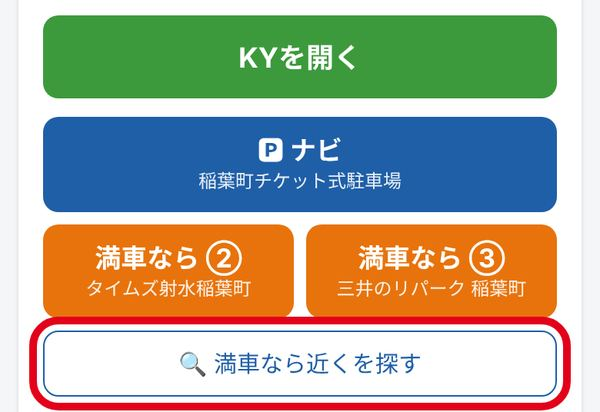
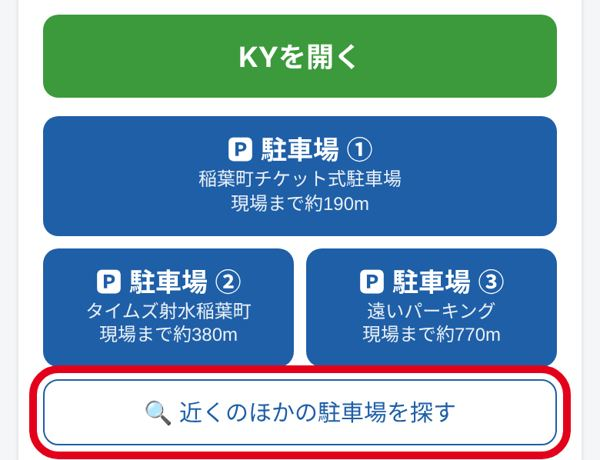
駐車場は「いつもの」「満車なら」をやめ、現場から近い順に①②③（距離つき）。⬆いつもの駐車場にするも外す、版40
Claude-Session: https://claude.ai/code/session_018EELiBsW9Z6HVn8MiPcFqs

diff --git a/list.js b/list.js
@@ -25,22 +25,20 @@ const List = (() => {
     return `<div class="addr">${where}${Nav.hasPoint(s) ? "　📍地図の場所あり" : ""}</div>${Nav.links(s)}`;
   }
 
-  // 駐車場（版34）：携帯が苦手な人は「押すだけ」。登録してある駐車場へのナビだけを大きく出す
-  //  1番目＝いつもの駐車場「🅿 ナビ」、2・3番目＝「満車なら②・③」（満車のときの駐車場は、登録する人が先に入れておく）
+  // 駐車場（版34・39・40）：携帯が苦手な人は「押すだけ」。登録してある駐車場を、現場から近い順に①②③で出す
+  //  押すと駐車場を見る画面（地図・距離・料金）→「ここにする」でナビ（parkview.js）
   //  「🔍 近くを探す」「駐車場を登録」は登録する人の表示（🔧）のときだけ
   function parkRow(s) {
-    const parks = s.parks || [];
-    const find = Nav.parkSearch(s, parks.length ? "🔍 満車なら近くを探す" : "🔍 近くの駐車場を探す", "parkFind helperOnly");
+    const parks = ParkView.sorted(s);
+    const find = Nav.parkSearch(s, parks.length ? "🔍 近くのほかの駐車場を探す" : "🔍 近くの駐車場を探す", "parkFind helperOnly");
     if (!parks.length) {
       return `${find}<button type="button" class="parkBtn small helperOnly" data-park="${esc(s.id)}">🅿 駐車場を登録（駐車場に着いてから）</button>`;
     }
     const nums = ["①", "②", "③"];
-    // 版39：押すといきなりナビではなく、駐車場を見る画面（地図・距離・料金→「ここにする」でナビ）を開く
     const gos = parks.slice(0, 3).map((p, i) => {
-      const d = typeof ParkView !== "undefined" ? ParkView.distText(s, p).replace("現場まで ", "現場まで") : "";
-      return `<button type="button" class="parkNavi${i ? " alt" : ""}" data-pview="${esc(s.id)}" data-pi="${i}">`
-        + (i === 0 ? `🅿 駐車場 ①` : `満車なら ${nums[i]}`)
-        + `<span class="sub">${esc(p.name || (i ? "ほかの駐車場" : "いつもの駐車場"))}</span>${d ? `<span class="sub">${esc(d.replace(/（.*$/, ""))}</span>` : ""}</button>`;
+      const d = ParkView.short(s, p);
+      return `<button type="button" class="parkNavi" data-pview="${esc(s.id)}" data-pid="${esc(p.id)}">🅿 駐車場${parks.length > 1 ? " " + nums[i] : ""}`
+        + `<span class="sub">${esc(p.name || "名前なし")}</span>${d ? `<span class="sub">現場まで${d}</span>` : ""}</button>`;
     }).join("");
     const line = (label, v) => v ? `<div>${label}：${esc(v)}</div>` : "";
     const items = parks.map((p, i) => `<div class="parkCard">
@@ -51,9 +49,8 @@ const List = (() => {
         ${Nav.links(p)}
       </div>`).join("");
     const btn = `<button type="button" class="parkBtn small helperOnly" data-park="${esc(s.id)}">🅿 駐車場を足す・直す</button>`;
-    const first = parks[0];
     return `<div class="parkGo${parks.length > 1 ? " many" : ""}">${gos}</div>${find}
-      <details class="parks"><summary>料金・ほかの駐車場（${parks.length}か所${first.price ? "　" + esc(first.price) : ""}）</summary>${items}${btn}</details>`;
+      <details class="parks"><summary>料金・ほかの駐車場（${parks.length}か所${parks[0].price ? "　" + esc(parks[0].price) : ""}）</summary>${items}${btn}</details>`;
   }
 
   function render() {
@@ -158,7 +155,7 @@ const List = (() => {
     const b = e.target.closest("button");
     if (!b) return;
     if (b.dataset.copy) return copy(b, b.dataset.copy, "コピー");
-    if (b.dataset.pview) return ParkView.show(b.dataset.pview, +b.dataset.pi);
+    if (b.dataset.pview) return ParkView.show(b.dataset.pview, b.dataset.pid);
     const site = Store.load().find(s => s.id === (b.dataset.share || b.dataset.del || b.dataset.edit || b.dataset.park));
     if (!site) return;
     if (b.dataset.park) return Park.open(site.id);

diff --git a/parkview.js b/parkview.js
@@ -1,6 +1,6 @@
 // 駐車場を見る画面（版39）：カードの「🅿 駐車場」を押しても、いきなりナビを始めない
 // 駐車場と現場の場所を地図に出し、現場までの距離・料金などを見てから「ここにする（ナビ開始）」で道案内を始める
-// 満車のとき用の②③も、上の番号ボタンで見比べられる
+// 駐車場が2つ以上あれば、現場から近い順に①②③と並べ、上の番号ボタンで見比べられる（版40）
 const ParkView = (() => {
   const esc = s => String(s ?? "").replace(/[&<>"']/g, c => ({"&":"&amp;","<":"&lt;",">":"&gt;",'"':"&quot;","'":"&#39;"}[c]));
   const hasPt = p => p && typeof p.lat === "number" && typeof p.lng === "number";
@@ -19,12 +19,28 @@ const ParkView = (() => {
     return m < 1000 ? `現場まで 約${Math.round(m / 10) * 10}m（歩いて約${walk}分）` : `現場まで 約${(m / 1000).toFixed(1)}km（歩いて約${walk}分）`;
   }
 
+  // 近い順に並べる（版40。「満車なら」はやめた）。現場の場所が無いときは入れた順
+  function sorted(site) {
+    const parks = (site && site.parks) || [];
+    if (!hasPt(site)) return parks.slice();
+    const d = p => hasPt(p) ? meters(site, p) : Infinity;
+    return parks.slice().sort((a, b) => d(a) - d(b));
+  }
+  // 短い距離の字（ボタン用）：「約190m」
+  function short(site, p) {
+    if (!hasPt(site) || !hasPt(p)) return "";
+    const m = meters(site, p);
+    return m < 1000 ? `約${Math.round(m / 10) * 10}m` : `約${(m / 1000).toFixed(1)}km`;
+  }
+
   let box = null, map = null;
   function close() { if (box) box.remove(); box = null; map = null; }
 
-  function show(siteId, idx) {
+  function show(siteId, parkId) {
     const site = Store.load().find(s => s.id === siteId);
-    const parks = (site && site.parks) || [];
+    const parks = sorted(site);
+    let idx = parks.findIndex(q => q.id === parkId);
+    if (idx < 0) idx = 0;
     const p = parks[idx];
     if (!p) return;
     close();
@@ -32,11 +48,11 @@ const ParkView = (() => {
     box.className = "pvBack";
     const line = (label, v) => v ? `<tr><th>${label}</th><td>${esc(v)}</td></tr>` : "";
     const tabs = parks.length > 1 ? `<div class="pvTabs">${parks.slice(0, 5).map((q, i) =>
-      `<button type="button" data-pv="${i}" class="${i === idx ? "on" : ""}">${NUM[i]} ${i === 0 ? "いつもの" : "満車なら"}</button>`).join("")}</div>` : "";
+      `<button type="button" data-pv="${esc(q.id)}" class="${i === idx ? "on" : ""}">${NUM[i]} ${short(site, q) || esc((q.name || "").slice(0, 6))}</button>`).join("")}</div>` : "";
     const d = distText(site, p);
     box.innerHTML = `<div class="pvCard">
       ${tabs}
-      <div class="pvKind">🅿 ${NUM[idx]} ${idx === 0 ? "いつもの駐車場" : "満車のときの駐車場"}</div>
+      <div class="pvKind">🅿 駐車場 ${NUM[idx]}${parks.length > 1 && hasPt(site) ? "（現場から近い順）" : ""}</div>
       <div class="pvName">${esc(p.name || "名前なし")}</div>
       ${d ? `<div class="pvDist">🚶 ${d}</div>` : `<div class="note0">現場の場所が入っていないので、距離は出せません。</div>`}
       <div class="pvMap" id="pvMap"></div>
@@ -48,7 +64,7 @@ const ParkView = (() => {
     box.addEventListener("click", e => {
       if (e.target === box || e.target.closest("[data-pvclose]")) return close();
       const t = e.target.closest("[data-pv]");
-      if (t) show(siteId, +t.dataset.pv);
+      if (t) show(siteId, t.dataset.pv);
       if (e.target.closest(".pvGo")) setTimeout(close, 300); // ナビを開いたら、この画面は閉じる
     });
     document.body.appendChild(box);
@@ -75,5 +91,5 @@ const ParkView = (() => {
     if (pts.length > 1) map.fitBounds(pts, { padding: [40, 40], maxZoom: 18 }); else map.setView(pts[0], 17);
   }
 
-  return { show, distText };
+  return { show, distText, sorted, short };
 })();

diff --git a/guide-reg.html b/guide-reg.html
@@ -5,7 +5,7 @@
 <meta name="viewport" content="width=device-width, initial-scale=1">
 <meta name="robots" content="noindex, nofollow">
 <title>現場入場アプリ 登録する人の説明書</title>
-<!-- 登録する人の説明書（版34）：現場を写真で入れる・仲間に送る・駐車場を登録（いつもの＋満車のとき）。写真は作り物の現場 -->
+<!-- 登録する人の説明書（版34・版40）：現場を写真で入れる・仲間に送る・駐車場を登録（近い順に出る）。写真は作り物の現場 -->
 <style>
 body{margin:0;font-family:-apple-system,"Hiragino Sans",sans-serif;background:#f4f6f8;color:#1a1a1a;font-size:17px;line-height:1.6}
 @media (prefers-color-scheme:dark){body{background:#16191d;color:#eee} section,.reg{background:#22262c!important} .tip{background:#1c2a3a!important} .box{background:#3a1c1c!important}}
@@ -35,10 +35,9 @@ img{display:block;margin:6px auto;border:1px solid #ccc;border-radius:8px;max-wi
 <div class="box">LINEには注意事項が全部出ます。ただし、近隣トラブル・人の名前（〇〇さん）・どの家か分かりそうな行（隣・向かい・〇〇宅など）は「要確認の注意があります」とだけ出て、中身は出ません。トラブルのことは「近隣」「トラブル」の言葉を入れて書くと確実です。</div></section>
 <section><h2>3　駐車場を登録する</h2>
 <div class="step"><div class="st"><span class="no">1</span>駐車場に着いたら「🅿 駐車場を登録」→「📍 今いる場所で登録」</div><p>料金などは看板の写真か手で入れて保存。出てきた「📋 知らせる文をコピー」をLINEの邸名のトークに貼ります。</p><img src="guide/6_here.jpg" loading="lazy" style="width:100%" alt=""></div>
-<h3>満車のときの駐車場も入れておく</h3>
-<p>みんなが満車で困らないように、<b>2つ目・3つ目の駐車場</b>も先に入れておいてください。カードに「満車なら②・③」のボタンが出て、押すだけで行けます。</p>
-<div class="step"><div class="st"><span class="no">2</span>順番を決める</div><p>1番目が<b>いつもの駐車場</b>（カードの青い「🅿 ナビ」）、2・3番目が<b>満車のとき</b>（オレンジ）です。「⬆ いつもの駐車場にする」で1番目にできます。</p><img src="guide/7_list.jpg" loading="lazy" style="width:100%" alt=""></div>
-<div class="step"><div class="st"><span class="no">3</span>近くの駐車場を探す</div><p>「🔍 満車なら近くを探す」はGoogleマップで近くの駐車場を探すボタンです。登録する人の表示のときだけ出ます。よさそうな所があったら、行って📍で登録してください。</p><img src="guide/7_find.jpg" loading="lazy" style="width:100%" alt=""></div></section>
+<h3>近くの駐車場をいくつか入れておく</h3>
+<p>カードには、現場から<b>近い順</b>に3つまで「🅿 駐車場 ①②③」が出ます。みんなは押して、地図・距離・料金を見てから「ここにする」でナビを始めます。近くの駐車場を2つ・3つ入れておくと、満車のときも選べます。</p>
+<div class="step"><div class="st"><span class="no">2</span>近くの駐車場を探す</div><p>「🔍 近くのほかの駐車場を探す」はGoogleマップで近くの駐車場を探すボタンです。登録する人の表示のときだけ出ます。よさそうな所があったら、行って📍で登録してください。</p><img src="guide/7_find.jpg" loading="lazy" style="width:100%" alt=""></div></section>
 <div class="bar" style="position:static;margin-top:20px"><a href="./">← アプリに戻る</a></div>
 </body>
 </html>

diff --git a/park.js b/park.js
@@ -88,17 +88,16 @@ const Park = (() => {
     if (!s) return;
     title.textContent = `${s.name} の駐車場`;
     // 登録した駐車場の下に、控えの「🔍 いっぱいのとき：近くの駐車場を地図で探す」（版26。ふだんは登録した駐車場を使い、登録は駐車場に行って📍でする）
-    document.getElementById("parkFind").innerHTML = Nav.parkSearch(s, (s.parks || []).length ? "🔍 満車なら近くを探す" : "🔍 近くの駐車場を探す")
+    document.getElementById("parkFind").innerHTML = Nav.parkSearch(s, (s.parks || []).length ? "🔍 近くのほかの駐車場を探す" : "🔍 近くの駐車場を探す")
       || `<p class="note0">🔍 近くの駐車場を地図で探すには、現場の「直す」で住所か地図の場所を入れてください。</p>`;
     const parks = s.parks || [];
     listEl.innerHTML = parks.length
-      // 版34：1番目が「いつもの駐車場」（カードの🅿 ナビ）、2・3番目が「満車なら②③」。⬆で1番目にできる
-      ? `<p class="note0">1番目が<b>いつもの駐車場</b>、2・3番目が<b>満車のとき</b>にカードに出ます。満車のときの駐車場も先に入れておくと、みんなが押すだけで行けます。</p>`
-        + parks.map((p, i) => `<div class="parkItem">
+      // 版40：カードには現場から近い順に①②③で出る（「いつもの」「満車なら」はやめた）
+      ? `<p class="note0">カードには、現場から<b>近い順</b>に3つまで出ます。近くの駐車場をいくつか入れておくと、みんなが押すだけで選べます。</p>`
+        + ParkView.sorted(s).map((p, i) => `<div class="parkItem">
           <div><b>${["①", "②", "③"][i] || "🅿"} ${esc(p.name || "名前なし")}</b>${p.price ? "　" + esc(p.price) : ""}</div>
-          <div class="note0">${i === 0 ? "いつもの駐車場" : i < 3 ? "満車のとき" : "カードには出ない（料金・ほかの駐車場の中だけ）"}／確認日：${esc(p.checked)}</div>
+          <div class="note0">${ParkView.short(s, p) ? "現場まで" + ParkView.short(s, p) + "／" : ""}確認日：${esc(p.checked)}</div>
           <div class="tools"><button type="button" data-pedit="${esc(p.id)}">直す</button>
-          ${i > 0 ? `<button type="button" data-ptop="${esc(p.id)}">⬆ いつもの駐車場にする</button>` : ""}
           <button type="button" class="del" data-pdel="${esc(p.id)}">削除</button></div>
         </div>`).join("")
       : `<p class="note0">まだ駐車場はありません。</p>`;
@@ -128,7 +127,6 @@ const Park = (() => {
     const b = e.target.closest("button");
     const s = site();
     if (!b || !s) return;
-    if (b.dataset.ptop) { Store.moveParkTop(siteId, b.dataset.ptop); renderList(); return; }
     const p = (s.parks || []).find(x => x.id === (b.dataset.pedit || b.dataset.pdel));
     if (!p) return;
     if (b.dataset.pedit) {

diff --git a/index.html b/index.html
@@ -6,8 +6,8 @@
 <meta name="robots" content="noindex, nofollow">
 <meta name="apple-mobile-web-app-title" content="現場入場">
 <title>現場入場アプリ</title>
-<link rel="stylesheet" href="style.css?v=26">
-<script src="line-escape.js?v=39"></script>
+<link rel="stylesheet" href="style.css?v=27">
+<script src="line-escape.js?v=40"></script>
 </head>
 <body>
 <div id="listScreen">
@@ -63,7 +63,7 @@
   </ul>
 
   <h3>🅿 駐車場</h3>
-  <p>現場のカードの「🅿 駐車場 ①」を押すと、駐車場と現場の地図・距離・料金が出ます。見てから「ここにする（ナビ開始）」で道案内します。満車なら、オレンジの「満車なら②・③」で別の駐車場へ。（満車のときの駐車場と「🔍 近くを探す」は、登録する人が用意します）駐車場の登録は、駐車場に着いてから「🅿 駐車場を登録」→「📍 今いる場所で登録」が一番かんたんです（住所・看板の写真でも登録できます）。</p>
+  <p>現場のカードの「🅿 駐車場」を押すと、駐車場と現場の地図・距離・料金が出ます。見てから「ここにする（ナビ開始）」で道案内します。駐車場が2つ以上ある現場は、現場から近い順に①②③で出ます。（駐車場の登録と「🔍 近くを探す」は、登録する人がします）駐車場の登録は、駐車場に着いてから「🅿 駐車場を登録」→「📍 今いる場所で登録」が一番かんたんです（住所・看板の写真でも登録できます）。</p>
   <ul>
     <li><b>駐車場の中で</b>「📍 今いる場所で登録」、離れた所からは「🏠 住所で登録」（場所は必須）</li>
     <li>場所がずれていたら「🗺 地図でピンを直す」でピンを動かす</li>
@@ -201,18 +201,18 @@
 <script src="https://cdn.jsdelivr.net/npm/jsqr@1.4.0/dist/jsQR.js"></script>
 <script src="https://cdn.jsdelivr.net/npm/tesseract.js@5.1.1/dist/tesseract.min.js"></script>
 <script src="https://cdn.jsdelivr.net/npm/libphonenumber-js@1.13.16/bundle/libphonenumber-min.js"></script>
-<script src="storage.js?v=8"></script>
+<script src="storage.js?v=9"></script>
 <script src="parktext.js?v=10"></script>
 <script src="share.js?v=12"></script>
 <script src="nav.js?v=9"></script>
-<script src="parkview.js?v=1"></script>
-<script src="list.js?v=16"></script>
+<script src="parkview.js?v=2"></script>
+<script src="list.js?v=17"></script>
 <script src="view.js?v=6"></script>
 <script src="add.js?v=7"></script>
 <script src="mappick.js?v=16"></script>
 <script src="home.js?v=10"></script>
 <script src="parkocr.js?v=14"></script>
-<script src="park.js?v=24"></script>
+<script src="park.js?v=25"></script>
 <script src="qr.js"></script>
 <script src="ocr.js"></script>
 <script src="photo.js?v=9"></script>

diff --git a/style.css b/style.css
@@ -138,7 +138,6 @@ body:not(.helper) .helperOnly { display:none !important; }
 /* 版34：駐車場のナビ。①いつもの（青）、②③満車なら（オレンジ）。🔍は登録する人の表示のときだけ、白い控えのボタン */
 .parkGo.many { flex-wrap:wrap; }
 .parkGo.many .parkNavi:first-child { flex-basis:100%; }
-.parkGo .parkNavi.alt { background:#e8730c; }
 .card > .parkFind { margin-top:8px; }
 /* 版35：倉庫・自宅がまだのときの「今、〇〇にいますか？」 */
 .homeAsk { margin-top:10px; font-size:16px; }
@@ -149,7 +148,6 @@ body:not(.helper) .helperOnly { display:none !important; }
 .homeTo { font-size:17px; font-weight:bold; color:var(--blue); margin:10px 0 2px; }
 /* 版39：駐車場を見る画面（地図・距離・料金 →「ここにする」でナビ） */
 .parkGo button.parkNavi { flex:1; border:none; color:#fff; border-radius:10px; padding:12px 8px; font-size:17px; font-weight:bold; line-height:1.3; background:var(--blue); }
-.parkGo button.parkNavi.alt { background:#e8730c; }
 .pvBack { position:fixed; inset:0; z-index:30; background:rgba(0,0,0,.5); display:flex; align-items:flex-end; justify-content:center; }
 .pvCard { background:var(--card); color:var(--text); width:100%; max-width:480px; max-height:92vh; overflow:auto; border-radius:16px 16px 0 0; padding:14px 14px calc(16px + env(safe-area-inset-bottom)); }
 .pvTabs { display:flex; gap:6px; margin-bottom:8px; } .pvTabs button { flex:1; padding:8px 4px; font-size:14px; font-weight:bold; }

diff --git a/storage.js b/storage.js
@@ -126,15 +126,5 @@ const Store = (() => {
     save(sites);
   }
 
-  // 駐車場の順番を変える（版34）：1番目が「いつもの駐車場」、2番目からが「満車のとき」
-  function moveParkTop(siteId, parkId) {
-    const sites = load();
-    const site = sites.find(s => s.id === siteId);
-    if (!site) return;
-    const ps = cleanParks(site.parks);
-    const j = ps.findIndex(p => p.id === parkId);
-    if (j > 0) { ps.unshift(ps.splice(j, 1)[0]); site.parks = ps; save(sites); }
-  }
-
-  return { load, upsert, remove, cleanTel, savePark, removePark, moveParkTop, today };
+  return { load, upsert, remove, cleanTel, savePark, removePark, today };
 })();

diff --git a/line-escape.js b/line-escape.js
@@ -3,7 +3,7 @@
 // 2回目（付いているのにまだLINEの中）：同じ所を回らないよう開き直さず、赤い字で知らせる
 // 原因を調べる間だけ：画面の下に「版」と「開き方」を小さく出す（直ったら消す）
 (() => {
-  const VERSION = "39";
+  const VERSION = "40";
   const ua = navigator.userAgent;
   const isLine = /\bLine\//i.test(ua);
 
